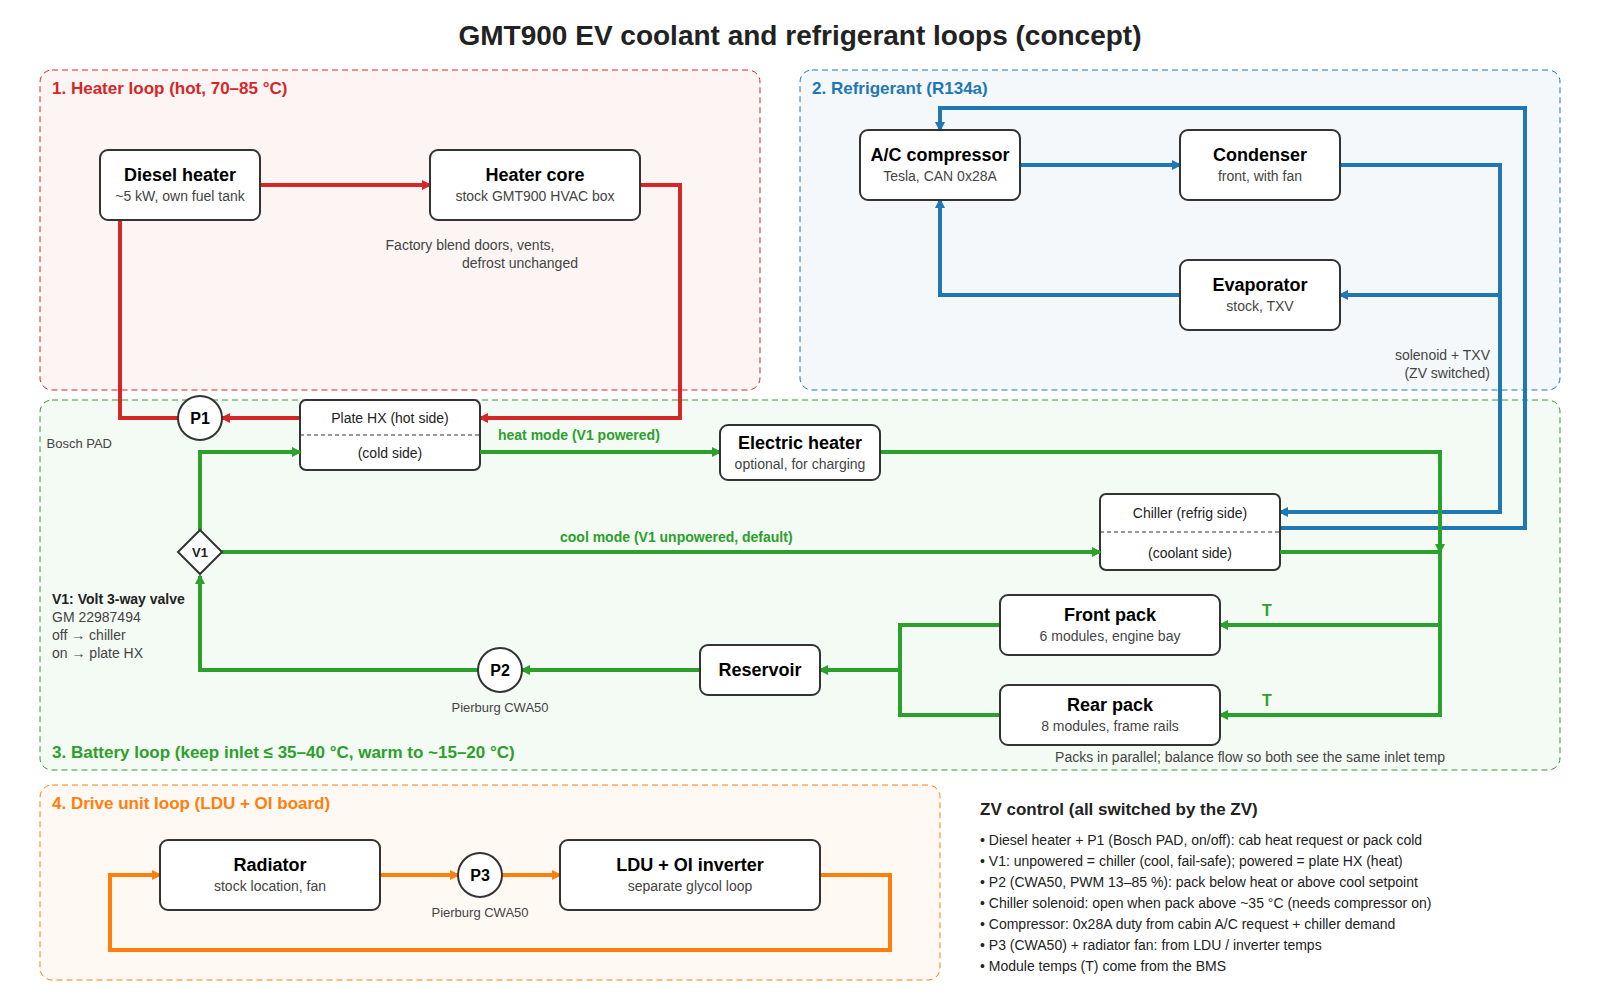
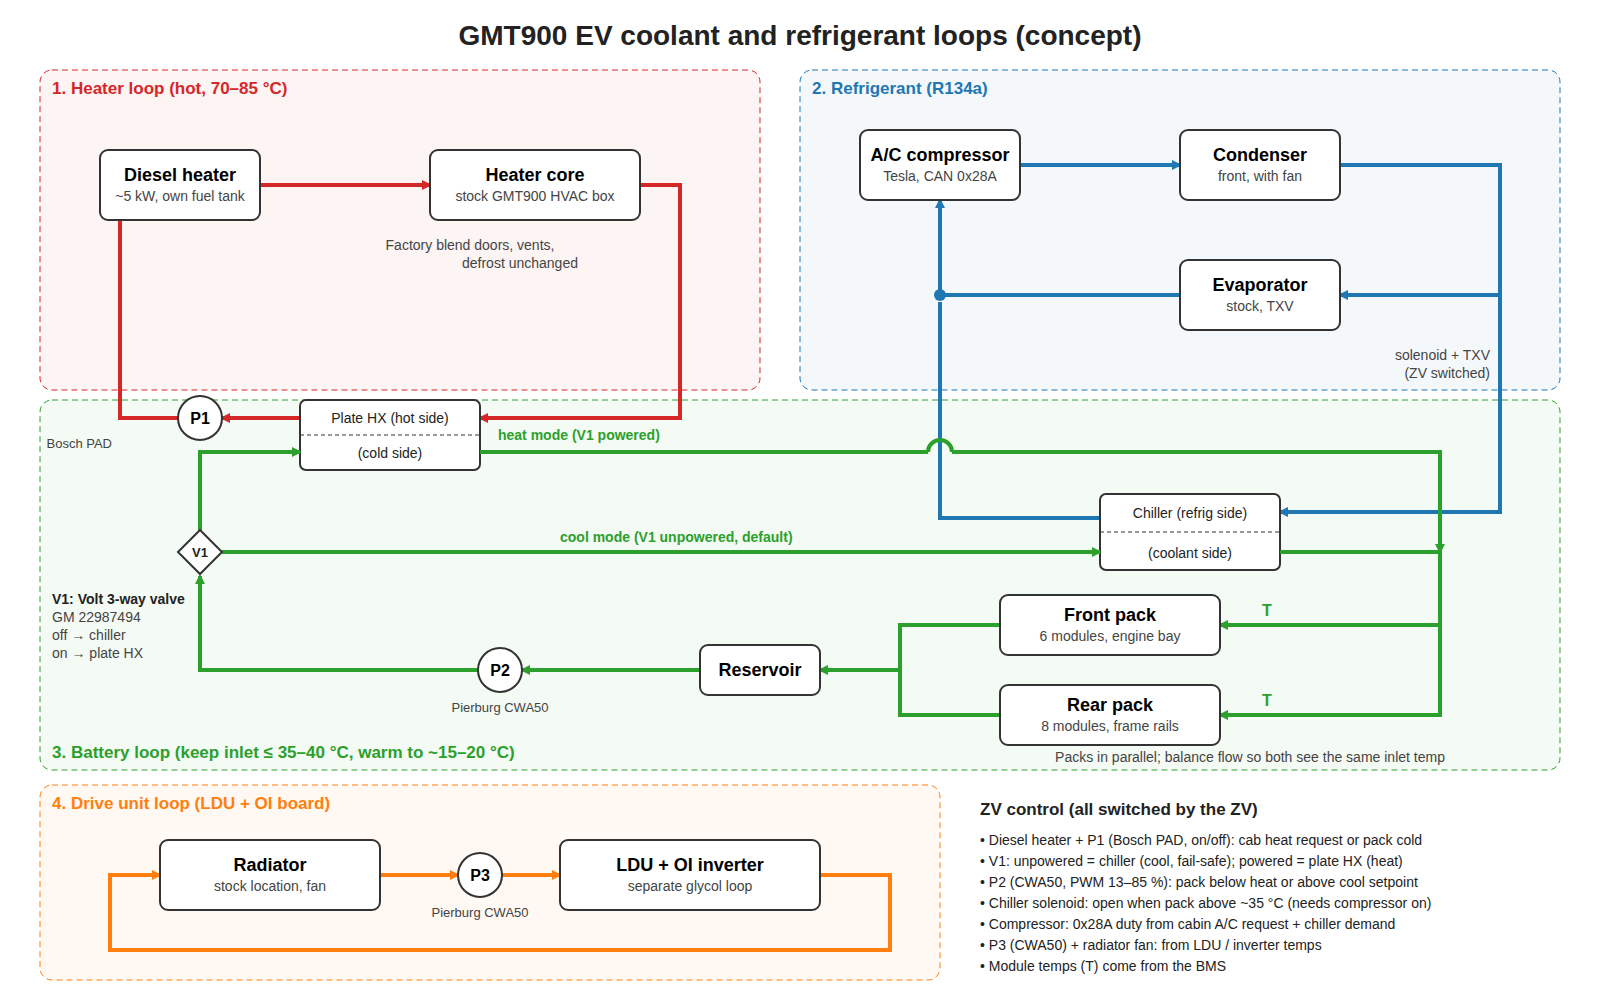
hvac diagram: drop electric heater, route chiller return under the compressor
Claude-Session: https://claude.ai/code/session_01P74GvqvULHgYSLEtMifxgm

Changed region(s): [[0.5938, 0.093, 0.9688, 0.124], [0.4375, 0.434, 0.5938, 0.496], [0.5938, 0.496, 0.6875, 0.527]]

diff --git a/hvac/README.md b/hvac/README.md
@@ -5,7 +5,7 @@ Compiled 2026-10-04 from the project's "HVAC" thread. Nothing here has been test
 
 ## The plan in one paragraph
 
-A Tesla high-voltage electric compressor replaces the belt-driven unit and feeds the stock GMT900 condenser and evaporator (both R134a). A diesel coolant heater plugs into the stock heater core hoses, so the factory blend doors, vents and defrost stay as they are. The same heater can warm the battery through a brazed plate heat exchanger, which keeps the hot heater coolant out of the modules. The battery loop runs through a chiller on the A/C circuit by default. A Chevy Volt 3-way valve switches it to the plate heat exchanger (and optional electric heater) when the pack needs heat. The LDU and OI board stay on their own loop and the stock radiator. The ZombieVerter switches the pumps, heater, chiller solenoid and compressor.
+A Tesla high-voltage electric compressor replaces the belt-driven unit and feeds the stock GMT900 condenser and evaporator (both R134a). A diesel coolant heater plugs into the stock heater core hoses, so the factory blend doors, vents and defrost stay as they are. The same heater can warm the battery through a brazed plate heat exchanger, which keeps the hot heater coolant out of the modules. The battery loop runs through a chiller on the A/C circuit by default. A Chevy Volt 3-way valve switches it to the plate heat exchanger when the pack needs heat. The LDU and OI board stay on their own loop and the stock radiator. The ZombieVerter switches the pumps, heater, chiller solenoid and compressor.
 
 ![Coolant and refrigerant loops](coolant-loops.png)
 
